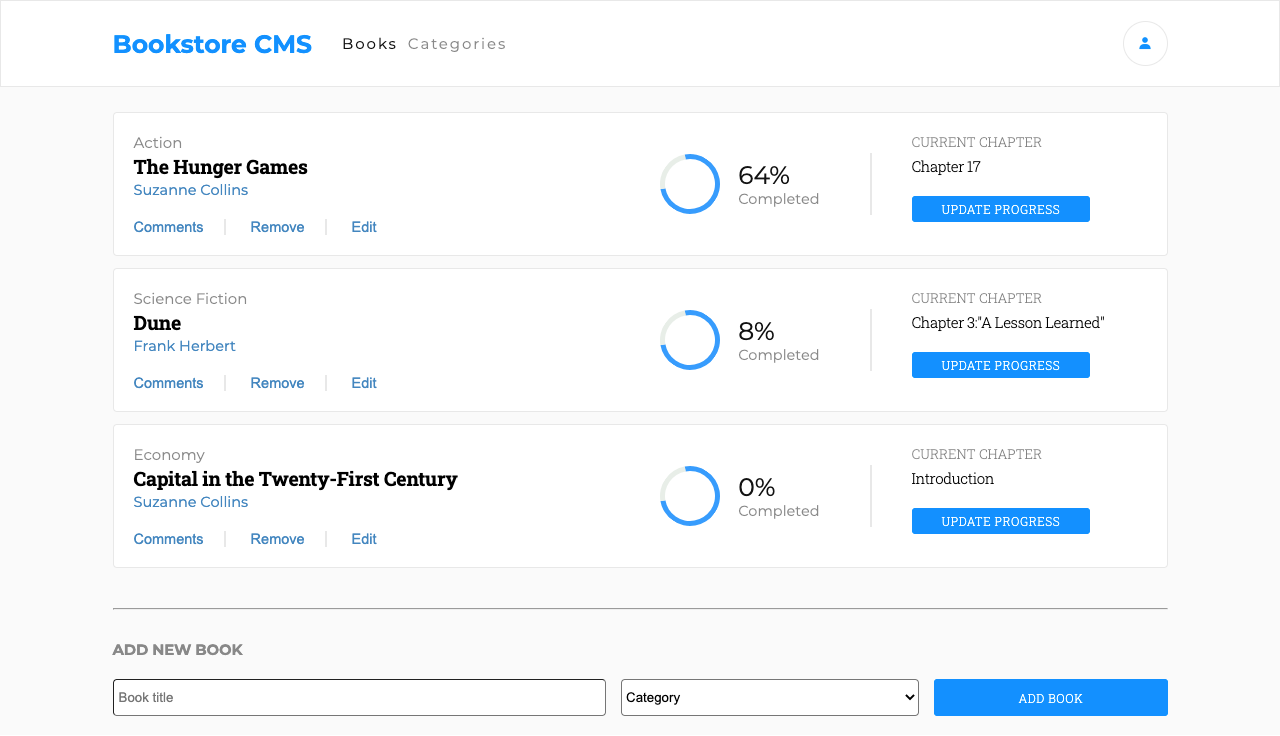
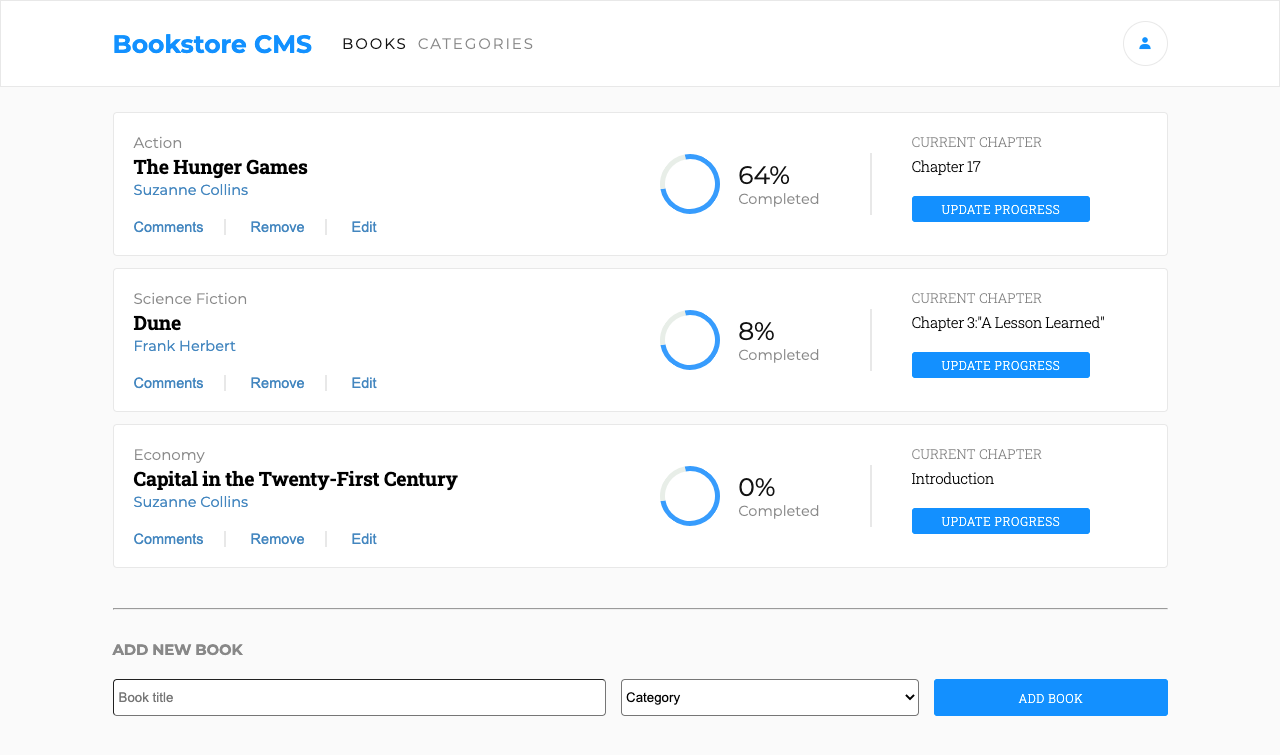
Modify Header.js file

diff --git a/src/components/Header.js b/src/components/Header.js
@@ -8,10 +8,10 @@ const Header = () => (
       <div className="logo">Bookstore CMS</div>
       <ul className="nav-list">
         <li className="nav-item">
-          <NavLink to="/" className="nav-link" activeClassName="active-link" exact>Books</NavLink>
+          <NavLink to="/" className="nav-link" activeClassName="active-link" exact>BOOKS</NavLink>
         </li>
         <li className="nav-item">
-          <NavLink to="/categories" className="nav-link" activeClassName="active-link" exact>Categories</NavLink>
+          <NavLink to="/categories" className="nav-link" activeClassName="active-link" exact>CATEGORIES</NavLink>
         </li>
       </ul>
       <div className="profile">

diff --git a/src/components/AddBook.css b/src/components/AddBook.css
@@ -9,7 +9,7 @@
 
 .addbook-form {
   display: flex;
-  padding: 2rem 0;
+  padding: 2rem 0 4rem;
 }
 
 .input-field {
